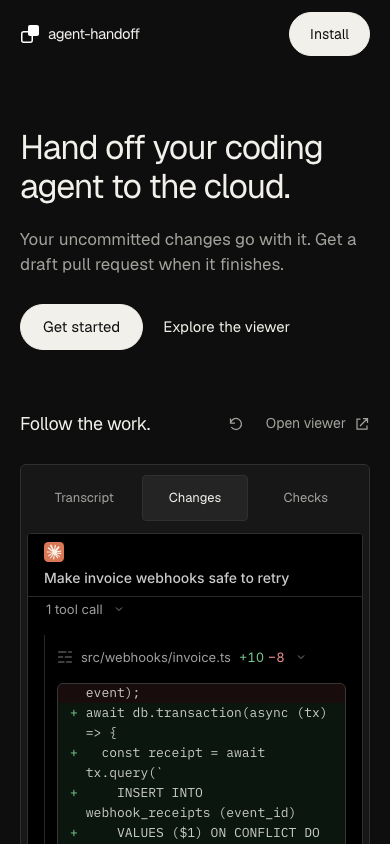
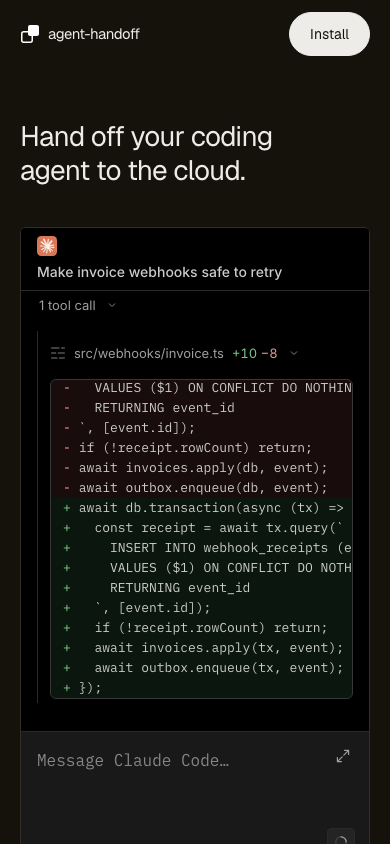
Polish live landing previews and remove redundant controls

diff --git a/site/styles.css b/site/styles.css
@@ -24,15 +24,15 @@
 
 :root {
   color-scheme: dark;
-  --ground: #0e0e0e;
-  --surface: #171717;
-  --hover: #242424;
-  --ink: #f2f0eb;
-  --muted: #a2a29d;
-  --rule: #303030;
+  --ground: #14120b;
+  --surface: #1c1a14;
+  --hover: #26241e;
+  --ink: #edece8;
+  --muted: #a6a398;
+  --rule: #302e27;
   --sans: Geist, ui-sans-serif, system-ui, sans-serif;
   --mono: "Geist Mono", ui-monospace, monospace;
-  --gutter: clamp(20px, 3.5vw, 56px);
+  --gutter: clamp(20px, 3vw, 56px);
   font-family: var(--sans);
   font-synthesis: none;
   -webkit-font-smoothing: antialiased;
@@ -50,51 +50,32 @@ a { color: inherit; text-decoration: none; }
 button:disabled { cursor: not-allowed; }
 button, a, iframe, .command { border-radius: 4px; }
 button:focus-visible, a:focus-visible { outline: 2px solid var(--ink); outline-offset: 4px; }
-::selection { background: #f2f0eb; color: #0e0e0e; }
+::selection { background: var(--ink); color: var(--ground); }
 svg, img { display: block; flex: none; }
-.wrap { width: min(100% - var(--gutter) * 2, 1280px); margin-inline: auto; }
+.wrap { width: min(100% - var(--gutter) * 2, 1300px); margin-inline: auto; }
 .sr-only { position: absolute; width: 1px; height: 1px; padding: 0; overflow: hidden; clip-path: inset(50%); white-space: nowrap; }
 .skip-link { position: fixed; top: 12px; left: 12px; z-index: 10; padding: 12px 20px; background: var(--ink); color: var(--ground); transform: translateY(-160%); }
 .skip-link:focus { transform: none; }
 
 .nav { position: sticky; top: 0; z-index: 3; background: var(--ground); }
-.nav-inner { display: flex; align-items: center; justify-content: space-between; gap: 24px; min-height: 72px; padding-top: env(safe-area-inset-top); }
+.nav-inner { display: flex; align-items: center; justify-content: space-between; gap: 24px; min-height: 56px; padding-top: env(safe-area-inset-top); }
 .brand { display: inline-flex; align-items: center; gap: 10px; min-height: 44px; font-size: 16px; letter-spacing: -0.5px; white-space: nowrap; }
-.nav-links, .nav-actions { display: flex; align-items: center; gap: 28px; }
-.nav-links a, .github-link { display: inline-flex; align-items: center; min-width: 44px; min-height: 44px; color: var(--muted); font-size: 14px; }
-.nav-actions { gap: 22px; }
 .button { display: inline-flex; justify-content: center; align-items: center; min-height: 46px; padding: 0 22px; border: 1px solid var(--ink); border-radius: 999px; background: var(--ink); color: var(--ground); font-size: 15px; line-height: 1.2; }
 .button-small { min-height: 44px; padding-inline: 20px; font-size: 14px; }
 .button:active { background: var(--muted); border-color: var(--muted); }
-.text-link { display: inline-flex; align-items: center; gap: 8px; min-height: 44px; font-size: 15px; }
-.text-link:active, .nav-links a:active, .github-link:active { color: var(--muted); }
 
-.hero { padding-block: 88px 72px; }
-.hero-copy { max-width: 630px; }
-.hero h1 { font-size: clamp(34px, 3.1vw, 44px); line-height: 1.16; letter-spacing: -1.6px; text-wrap: balance; }
-.hero-copy > p { margin-top: 22px; color: var(--muted); font-size: 18px; line-height: 1.5; }
-.hero-actions { display: flex; align-items: center; gap: 24px; margin-top: 30px; }
+.hero { padding-block: 108px 56px; }
+.hero h1 { max-width: 510px; font-size: clamp(28px, 2.2vw, 30px); line-height: 1.2; letter-spacing: -0.75px; text-wrap: balance; }
 
-.product { scroll-margin-top: 12px; }
-.product-intro { display: flex; align-items: flex-end; justify-content: space-between; gap: 20px; padding-bottom: 24px; }
-.product-intro h2 { font-size: 20px; line-height: 1.4; letter-spacing: -0.3px; }
-.preview-actions { display: flex; align-items: center; gap: 16px; }
-.open-viewer { flex: none; color: var(--muted); }
-.workspace { padding: 12px; border: 1px solid var(--rule); border-radius: 8px; background: var(--surface); }
-.work-rail { min-width: 0; padding-bottom: 12px; }
-.view-controls { display: flex; gap: 4px; }
-.view-controls button { min-width: 104px; min-height: 46px; padding: 10px 16px; border: 1px solid transparent; background: transparent; color: var(--muted); font-size: 14px; }
-.view-controls button[aria-pressed="true"] { border-color: var(--rule); background: var(--hover); color: var(--ink); }
-.view-controls button:active, .reset-preview:active { background: var(--hover); color: var(--ink); }
-.reset-preview { display: inline-flex; align-items: center; justify-content: center; flex: none; width: 44px; height: 44px; padding: 0; border: 0; background: none; color: var(--muted); }
-#app-preview { display: block; width: 100%; height: 680px; min-width: 0; border: 1px solid var(--rule); background: #000; }
+.workspace { overflow: hidden; border: 1px solid var(--rule); border-radius: 8px; background: #000; }
+[data-app-preview] { display: block; min-width: 0; background: #000; }
+#app-preview { width: 100%; height: min(680px, calc(100svh - 104px)); border: 0; border-radius: 0; }
 
 .mobile-feature { display: grid; grid-template-columns: 0.85fr 1.4fr; align-items: center; gap: clamp(40px, 5vw, 80px); margin-top: 140px; padding: 64px 0; border-block: 1px solid var(--rule); }
 .feature-copy { max-width: 360px; }
-.feature-copy h2, .section-heading h2, .install h2 { font-size: clamp(28px, 2.6vw, 36px); line-height: 1.2; letter-spacing: -1px; }
+.feature-copy h2, .section-heading h2, .install h2 { font-size: clamp(26px, 2.2vw, 30px); line-height: 1.2; letter-spacing: -0.75px; text-wrap: balance; }
 .mobile-evidence { display: flex; justify-content: center; min-width: 0; }
-.phone-shot { flex: none; width: min(100%, 340px); }
-.phone-shot img { width: 100%; height: auto; border: 1px solid var(--rule); border-radius: 8px; background: #000; }
+#mobile-preview { width: min(100%, 390px); height: auto; aspect-ratio: 390 / 844; border: 1px solid var(--rule); border-radius: 8px; }
 
 .agents { padding-block: 96px 72px; }
 .section-heading { display: flex; justify-content: space-between; align-items: flex-end; gap: 32px; }
@@ -119,36 +100,23 @@ svg, img { display: block; flex: none; }
 .footer small { color: var(--muted); font-size: 12px; }
 
 @media (hover: hover) and (pointer: fine) {
-  .nav-links a:hover, .github-link:hover, .text-link:hover, .footer-links > a:hover, .reset-preview:hover { color: var(--ink); }
-  .text-link:hover { text-decoration: underline; text-underline-offset: 4px; }
+  .footer-links > a:hover { color: var(--ink); }
   .button:hover { background: #fff; border-color: #fff; }
-  .view-controls button:hover { background: var(--hover); color: var(--ink); }
   .copy:hover { background: var(--rule); }
 }
 
 @media (max-width: 1000px) {
-  .nav-links { display: none; }
   .mobile-feature { grid-template-columns: 1fr 1.15fr; gap: 40px; }
   .install { flex-direction: column; align-items: flex-start; gap: 28px; }
 }
 
 @media (max-width: 720px) {
   .nav-inner { min-height: 68px; gap: 12px; }
-  .nav-actions { gap: 0; }
-  .github-link { display: none; }
   .brand { font-size: 15px; gap: 8px; }
-  .hero { padding-block: 60px 52px; }
-  .hero h1 { max-width: 17ch; letter-spacing: -1.1px; }
-  .hero-copy > p { margin-top: 20px; font-size: 17px; }
-  .hero-actions { gap: 20px; margin-top: 26px; }
-  .product-intro { align-items: center; padding-bottom: 18px; }
-  .product-intro h2 { font-size: 18px; }
-  .preview-actions { gap: 8px; }
-  .open-viewer { font-size: 14px; }
-  .workspace { padding: 6px; border-radius: 6px; }
-  .work-rail { padding: 4px 4px 12px; }
-  .view-controls button { flex: 1; min-width: 0; padding: 8px 5px; font-size: 13px; }
-  #app-preview { height: 640px; }
+  .hero { padding-block: 52px 40px; }
+  .hero h1 { max-width: 21ch; }
+  .workspace { border-radius: 6px; }
+  #app-preview { height: min(640px, calc(100svh - 96px)); }
   .mobile-feature { grid-template-columns: 1fr; gap: 40px; margin-top: 72px; padding-block: 48px; }
   .feature-copy { max-width: 420px; }
   .agents { padding-block: 64px 56px; }

diff --git a/site/index.html b/site/index.html
@@ -6,7 +6,7 @@
     <title>agent-handoff</title>
     <meta name="description" content="Hand off your coding agent to the cloud." />
     <meta name="color-scheme" content="dark" />
-    <meta name="theme-color" content="#0e0e0e" />
+    <meta name="theme-color" content="#14120b" />
     <link rel="icon" href="assets/logo.svg" type="image/svg+xml" />
     <link rel="preload" href="fonts/geist-wght.woff2" as="font" type="font/woff2" crossorigin />
     <link rel="stylesheet" href="styles.css" />
@@ -19,59 +19,25 @@
         <a class="brand" href="./" translate="no">
           <img src="assets/logo.svg" width="20" height="20" alt="" />agent-handoff
         </a>
-        <div class="nav-links">
-          <a href="#viewer">The viewer</a>
-          <a href="#agents">Agents</a>
-        </div>
-        <div class="nav-actions">
-          <a class="github-link" href="https://github.com/bamiboy237/agent-handoff">GitHub</a>
-          <a class="button button-small" href="#install">Install</a>
-        </div>
+        <a class="button button-small" href="#install">Install</a>
       </nav>
     </header>
 
     <main id="main" class="wrap" tabindex="-1">
       <section class="hero" aria-labelledby="hero-title">
-        <div class="hero-copy">
-          <h1 id="hero-title">Hand off your coding agent to the cloud.</h1>
-          <p>Your uncommitted changes go with it. Get a draft pull request when it finishes.</p>
-          <div class="hero-actions">
-            <a class="button" href="#install">Get started</a>
-            <a class="text-link" href="#viewer">Explore the viewer</a>
-          </div>
-        </div>
+        <h1 id="hero-title">Hand off your coding agent to the cloud.</h1>
       </section>
 
-      <section class="product" id="viewer" aria-labelledby="viewer-title">
-        <div class="product-intro">
-          <div>
-            <h2 id="viewer-title">Follow the work.</h2>
-          </div>
-          <div class="preview-actions">
-            <button class="reset-preview" type="button" data-reset-preview aria-label="Reset viewer" title="Reset viewer"><svg width="16" height="16" viewBox="0 0 16 16" fill="none" aria-hidden="true"><path d="M2.5 7a5.5 5.5 0 1 1 .8 4M2.5 2.5V7H7" stroke="currentColor" stroke-width="1.25"/></svg></button>
-            <a class="text-link open-viewer" href="preview.html" target="_blank" rel="noopener">Open viewer <svg width="16" height="16" viewBox="0 0 16 16" fill="none" aria-hidden="true"><path d="M9 2.5h4.5V7M13 3l-7 7M6.5 3H3v10h10V9.5" stroke="currentColor" stroke-width="1.25"/></svg></a>
-          </div>
-        </div>
-        <div class="workspace">
-          <aside class="work-rail" aria-label="Explore the task">
-            <div class="view-controls" role="group" aria-label="Inspect the work">
-              <button type="button" data-preview-view="conversation" aria-pressed="true">Transcript</button>
-              <button type="button" data-preview-view="changes" aria-pressed="false">Changes</button>
-              <button type="button" data-preview-view="checks" aria-pressed="false">Checks</button>
-            </div>
-          </aside>
-          <iframe id="app-preview" src="preview.html" title="Agent viewer: invoice webhook implementation and tests" allow="clipboard-write"></iframe>
-        </div>
-      </section>
+      <div class="workspace" id="viewer">
+        <iframe id="app-preview" data-app-preview src="preview.html" title="Invoice webhook implementation and tests" allow="clipboard-write"></iframe>
+      </div>
 
       <section class="mobile-feature" aria-labelledby="mobile-title">
         <div class="feature-copy">
-          <h2 id="mobile-title">The viewer on your phone.</h2>
+          <h2 id="mobile-title">Check in on your work, on the go</h2>
         </div>
         <div class="mobile-evidence">
-          <figure class="phone-shot">
-            <img src="assets/viewer-mobile.png" width="390" height="844" alt="Mobile viewer showing the webhook transaction diff and message composer." loading="lazy" />
-          </figure>
+          <iframe id="mobile-preview" data-app-preview src="preview.html" title="Mobile agent session" allow="clipboard-write"></iframe>
         </div>
       </section>
 

diff --git a/site/main.js b/site/main.js
@@ -1,24 +1,14 @@
-const preview = document.getElementById("app-preview");
-const viewButtons = document.querySelectorAll("[data-preview-view]");
-let visible = false;
-const syncVisibility = () => preview.contentWindow.postMessage({ type: "handoff-preview-active", active: visible }, location.origin);
-new IntersectionObserver(([entry]) => {
-  visible = entry.isIntersecting;
-  syncVisibility();
-}).observe(preview);
-window.addEventListener("message", (event) => {
-  if (event.origin === location.origin && event.source === preview.contentWindow && event.data?.type === "handoff-preview-ready") syncVisibility();
-});
-for (const button of viewButtons) {
-  button.addEventListener("click", () => {
-    for (const peer of viewButtons) peer.setAttribute("aria-pressed", String(peer === button));
-    preview.contentWindow.postMessage({ type: "handoff-preview-view", view: button.dataset.previewView }, location.origin);
+for (const preview of document.querySelectorAll("[data-app-preview]")) {
+  let visible = false;
+  const syncVisibility = () => preview.contentWindow.postMessage({ type: "handoff-preview-active", active: visible }, location.origin);
+  new IntersectionObserver(([entry]) => {
+    visible = entry.intersectionRatio >= 0.25;
+    syncVisibility();
+  }, { threshold: 0.25 }).observe(preview);
+  window.addEventListener("message", (event) => {
+    if (event.origin === location.origin && event.source === preview.contentWindow && event.data?.type === "handoff-preview-ready") syncVisibility();
   });
 }
-document.querySelector("[data-reset-preview]").addEventListener("click", () => {
-  for (const button of viewButtons) button.setAttribute("aria-pressed", String(button.dataset.previewView === "conversation"));
-  preview.src = "preview.html";
-});
 
 // Copy the install command. The copy icon turns into a check for a moment.
 for (const button of document.querySelectorAll("[data-copy]")) {

diff --git a/DESIGN.md b/DESIGN.md
@@ -6,7 +6,7 @@ The landing page answers one question: can my coding agent keep working when I l
 
 The reference is the [Figma page](https://www.figma.com/design/HDo81e6bG8TwB6xhWdVu42/Untitled?node-id=1-2). Its useful traits are a quiet navigation bar, short left-aligned copy, large product views, and space between sections.
 
-The page uses a left-aligned introduction over the viewer. The viewer does the explaining. Its controls open the transcript, changes, and checks.
+The page uses a left-aligned introduction over the app. Work progresses in the transcript without a separate walkthrough. The header has one Install action; Source code lives in the footer.
 
 ## Colors and type
 
@@ -14,34 +14,34 @@ The page uses a left-aligned introduction over the viewer. The viewer does the e
 
 | Role | Token | Value |
 | --- | --- | --- |
-| Page | `--ground` | `#0e0e0e` |
-| Product surround and footer | `--surface` | `#171717` |
-| Selected and pressed controls | `--hover` | `#242424` |
-| Primary text | `--ink` | `#f2f0eb` |
-| Secondary text | `--muted` | `#a2a29d` |
-| Dividers | `--rule` | `#303030` |
+| Page | `--ground` | `#14120b` |
+| Footer and install command | `--surface` | `#1c1a14` |
+| Pressed controls | `--hover` | `#26241e` |
+| Primary text | `--ink` | `#edece8` |
+| Secondary text | `--muted` | `#a6a398` |
+| Dividers | `--rule` | `#302e27` |
 
 Geist sets the interface and page copy. Geist Mono sets the install command. Geist Pixel sets the decorative footer wordmark. Fonts are served locally. The viewer keeps its own Inter and IBM Plex Mono fonts through the shared renderer.
 
-Headlines use regular weight and a 34px to 44px range. Section headings use 28px to 36px. Body text uses 16px. Controls keep 44px touch areas.
+Headlines use regular weight and a 28px to 30px range. Section headings use 26px to 30px. Body text uses 16px. Controls keep 44px touch areas.
 
 ## Layout
 
-- Content has a 1280px maximum width and fluid 20px to 56px side margins.
-- A compact row of view controls sits above the app at every width.
+- Content has a 1300px maximum width and fluid 20px to 56px side margins.
 - The app is an iframe, not a rebuilt image of the interface. Its transcript scrolls independently from its composer.
-- The mobile section contains a browser capture of the same viewer. On phones, the capture takes the available width.
+- Code diffs preserve indentation and scroll within their own bounds.
+- The mobile section runs another instance of the same app at phone width. It accepts scrolling, tool disclosure, and messages.
 - Supported agents and providers have one section. The setup command follows it.
 
 Surrounds have a 6px or 8px radius. Controls use 4px corners, except the primary call to action. No gradient, dot field, fake window controls, or ornamental status badges appear on the landing page.
 
 ## Interaction
 
-The session starts when the preview enters view. Complete messages, tool calls, diffs, failures, and results arrive over time. Playback pauses offscreen and in a hidden tab. The view controls can jump ahead without making the reader wait. Reset starts the session again.
+Each app starts when a quarter of its frame enters view. Complete messages, tool calls, diffs, failures, and results arrive over time. Playback pauses offscreen and in a hidden tab. Each instance keeps its own progress, history, and draft.
 
 Follow-up messages enter the transcript. The agent finishes the current task, then checks the requested retry, signature, or migration path. Other requests receive a question rather than an unrelated success reply.
 
-View changes, tool disclosure, and copy feedback are immediate. There is no letter-by-letter typing, audio, or section-entry animation. Hover styles apply only to a fine pointer that supports hover.
+Tool disclosure and copy feedback are immediate. There is no letter-by-letter typing, audio, or section-entry animation. Hover styles apply only to a fine pointer that supports hover.
 
 Keyboard focus has a visible outline. The page includes a skip link. The install command has clipboard feedback and a text-selection fallback. The viewer retains its own focus, reduced-motion, and touch behavior.
 
@@ -55,4 +55,4 @@ Keyboard focus has a visible outline. The page includes a skip link. The install
 
 The Chromium and WebKit browser checks run against the site under `/agent-handoff/`, matching the GitHub Pages path. Controlled browser clocks check event timing, pause and resume, the failed check and correction, completion, and follow-up replies. Layout checks cover 320px through 1440px, including touch input, focus, and clipboard fallback.
 
-Screenshots are in `docs/images/landing-*.png`. The mobile capture used on the page is `site/assets/viewer-mobile.png`.
+Screenshots are in `docs/images/landing-*.png`. The page embeds the app at both sizes; it does not use screenshots as product views.

diff --git a/docs/landing-page-preview.md b/docs/landing-page-preview.md
@@ -19,7 +19,7 @@ WATCH_BROWSER=webkit npm run test:watch
 
 The site tests serve the generated files under `/agent-handoff/`. They check the same relative paths that GitHub Pages uses.
 
-The viewer starts when it enters view and pauses offscreen. Changes and Checks jump to those parts of the session. Reset starts over. Follow-up messages produce additional checks after the main task finishes.
+The desktop and phone apps start as they enter view and pause offscreen. Each has its own scrollable transcript, expandable tools, and message composer. Follow-up messages produce additional checks after the main task finishes.
 
 ## Refresh the screenshots
 
@@ -39,5 +39,6 @@ The captures include the desktop page, the mobile page at 390 × 844, and the ap
 | Mobile app | [App](images/landing-app-mobile.png) |
 | Session start | [Start](images/landing-live-start.png) |
 | Real-time playback | [Running](images/landing-live-running.png) |
+| Real-time phone playback | [Phone](images/landing-live-mobile-running.png) |
 | Failed regression check | [Failure](images/landing-live-failure.png) |
 | Completed session | [Result](images/landing-live-completed.png) |
